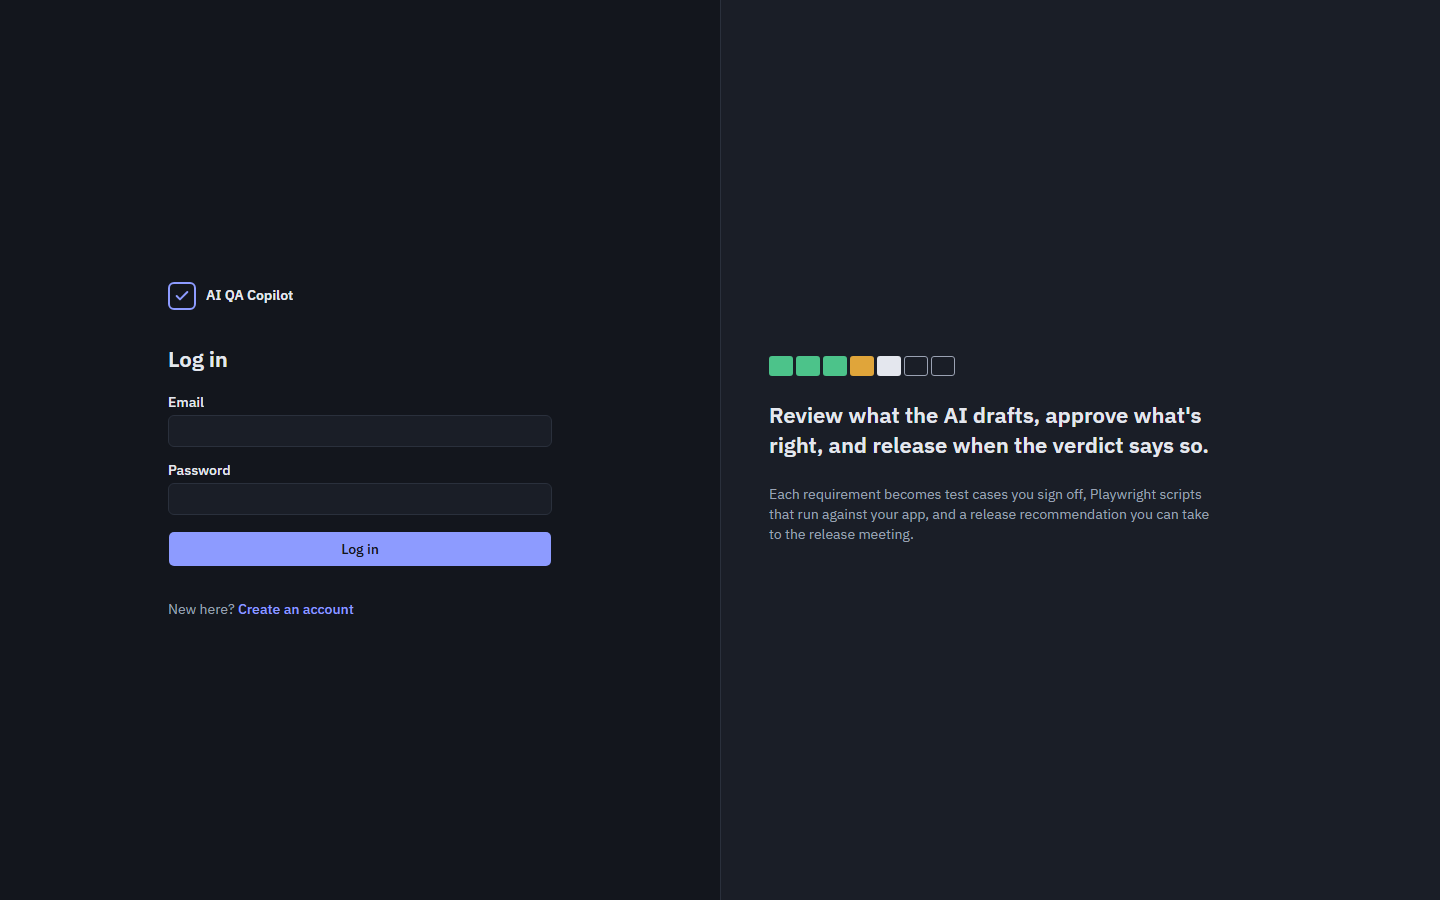
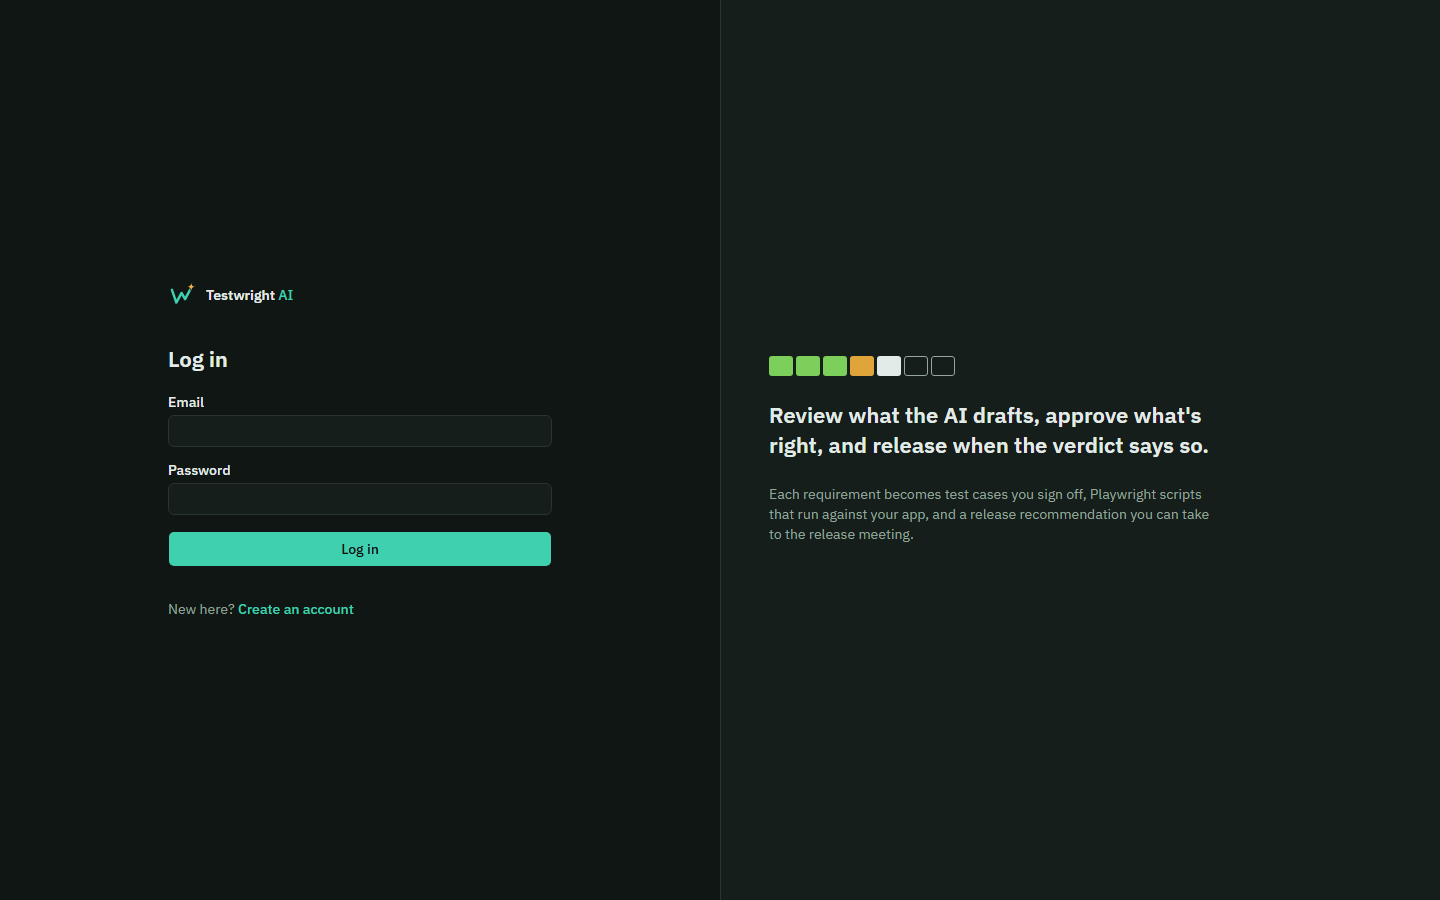
Retake the README screenshots for Testwright AI
New name, Jade palette, the redesigned Home, sidebar and Review tab, in light
and dark. Captions updated to match what the pictures now show.

Changed region(s): [[0.0938, 0.5911, 0.4062, 0.6844], [0.5312, 0.3733, 0.5938, 0.4356], [0.0938, 0.3111, 0.2188, 0.3422]]

diff --git a/README.md b/README.md
@@ -19,7 +19,7 @@ Testwright AI turns a user story into reviewed test cases, real Playwright autom
 
 <picture>
   <source media="(prefers-color-scheme: dark)" srcset="docs/screenshots/review-dark.png">
-  <img alt="Reviewing AI-drafted test cases: the case list on the left, the selected case with numbered steps and Approve / Reject buttons on the right" src="docs/screenshots/review-light.png">
+  <img alt="Reviewing AI-drafted test cases: the cases to review on the left, the selected case with numbered steps and Approve / Reject in the middle, and open questions and risks on the right" src="docs/screenshots/review-light.png">
 </picture>
 
 <sub>Screenshots follow your GitHub theme. Switch between light and dark to see the other one.</sub>
@@ -56,7 +56,7 @@ Rejecting asks why, so you keep a record of where the drafts go wrong:
 
 <picture>
   <source media="(prefers-color-scheme: dark)" srcset="docs/screenshots/reject-dark.png">
-  <img alt="Reject form with reason chips: Duplicate, Out of scope, Wrong expected result, Not testable, Other, and an optional note" src="docs/screenshots/reject-light.png" width="620">
+  <img alt="Reject form with reason chips: Duplicate, Out of scope, Wrong expected result, Not testable, Other, and an optional note" src="docs/screenshots/reject-light.png" width="426">
 </picture>
 
 Every approval and rejection records **who** made it and **when**. Editing an approved case warns you first, because the change sends it back to draft.
@@ -77,18 +77,18 @@ The release verdict comes first, in its own colour. Below it is every case: the 
 
 <picture>
   <source media="(prefers-color-scheme: dark)" srcset="docs/screenshots/verdict-dark.png">
-  <img alt="Automation tab: a red 'Not ready to release' verdict, a tally of passed, needs review and not automated cases, and a results table with run history and a Flaky flag" src="docs/screenshots/verdict-light.png">
+  <img alt="Automation tab: a red 'Not ready to release' verdict, a tally of passed, needs review and not automated cases, and and a results table with each case's result, tries and recent runs" src="docs/screenshots/verdict-light.png">
 </picture>
 
 The report agent returns a structured verdict (**Ready**, **Ready with risks** or **Not ready**) with a summary, coverage analysis and quality risks, grounded in exact case counts.
 
 ## 🗂 Stay on top of everything
 
-The sidebar keeps a **Cases to review** queue with a live count, plus **Failing scripts** when any exist. The home page opens with what **needs attention** across every project:
+The sidebar keeps a **Review queue** with a live count, plus **Failing scripts** when any exist, and **Ctrl K** search jumps to any project, suite or requirement. Home opens with what's waiting for you: summary tiles, **your next steps** with a button to act on each, and every project as a card:
 
 <picture>
   <source media="(prefers-color-scheme: dark)" srcset="docs/screenshots/projects-dark.png">
-  <img alt="Projects page with a Needs attention table showing each requirement's case strip, stage and verdict" src="docs/screenshots/projects-light.png">
+  <img alt="Home: a greeting with what is waiting, summary tiles for cases to review, scripts to check and releases not ready, a next steps list with Review buttons, and project cards with counts, a pass bar and the latest verdict" src="docs/screenshots/projects-light.png">
 </picture>
 
 <table>
